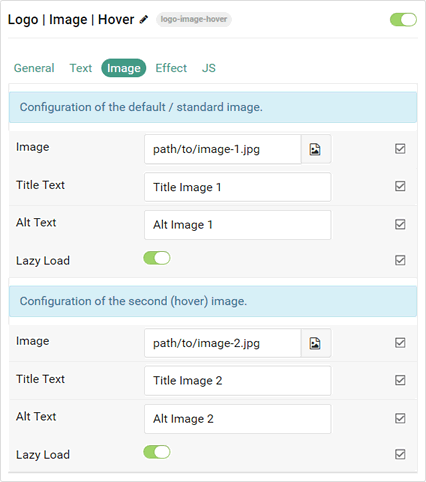
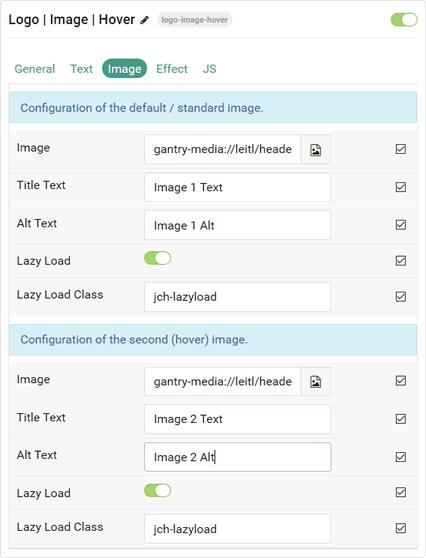
added legacy and translation yaml, screenshot updated, prep. 1.2.0

diff --git a/README.md b/README.md
@@ -9,22 +9,22 @@ This project contains a Gantry Particle and adds a very powerful image render an
 * Gantry Templating Framework and Theme
 
 ## Download
-Choose the correct download for your target platform. The Joomla Plugin System is supported for all Gantry themes globally or locally for the templates Helium and Hydrogen. The latest Particle version is **v1.1.9**.
+Choose the correct download for your target platform. The Joomla Plugin System is supported for all Gantry themes globally or locally for the templates Helium and Hydrogen. The latest Particle version is **v1.2.0**.
 ___
 **Default Particle:**
-[English](https://github.com/thexmanxyz/Logo-Image-Hover-Gantry/releases/download/v1.1.9/lih.particle.only.EN.v1.1.9.zip) / [German](https://github.com/thexmanxyz/Logo-Image-Hover-Gantry/releases/download/v1.1.9/lih.particle.only.DE.v1.1.9.zip)
+[English](https://github.com/thexmanxyz/Logo-Image-Hover-Gantry/releases/download/v1.2.0/lih.particle.only.EN.v1.2.0.zip) / [German](https://github.com/thexmanxyz/Logo-Image-Hover-Gantry/releases/download/v1.2.0/lih.particle.only.DE.v1.2.0.zip)
 
 **Legacy Particle - Gantry <5.3.2:**
-[English](https://github.com/thexmanxyz/Logo-Image-Hover-Gantry/releases/download/v1.1.9/lih.particle.only.legacy.EN.v1.1.9.zip) / [German](https://github.com/thexmanxyz/Logo-Image-Hover-Gantry/releases/download/v1.1.9/lih.particle.only.legacy.DE.v1.1.9.zip)
+[English](https://github.com/thexmanxyz/Logo-Image-Hover-Gantry/releases/download/v1.2.0/lih.particle.only.legacy.EN.v1.2.0.zip) / [German](https://github.com/thexmanxyz/Logo-Image-Hover-Gantry/releases/download/v1.2.0/lih.particle.only.legacy.DE.v1.2.0.zip)
 
 **Joomla Plugin - All Templates (Global):**
-[English](https://github.com/thexmanxyz/Logo-Image-Hover-Gantry/releases/download/v1.1.9/lih.j3.global.EN.v1.1.9.zip) / [German](https://github.com/thexmanxyz/Logo-Image-Hover-Gantry/releases/download/v1.1.9/lih.j3.global.DE.v1.1.9.zip)
+[English](https://github.com/thexmanxyz/Logo-Image-Hover-Gantry/releases/download/v1.2.0/lih.j3.global.EN.v1.2.0.zip) / [German](https://github.com/thexmanxyz/Logo-Image-Hover-Gantry/releases/download/v1.2.0/lih.j3.global.DE.v1.2.0.zip)
 
 **Joomla Plugin - Hydrogen:**
-[English](https://github.com/thexmanxyz/Logo-Image-Hover-Gantry/releases/download/v1.1.9/lih.j3.hydrogen.EN.v1.1.9.zip) / [German](https://github.com/thexmanxyz/Logo-Image-Hover-Gantry/releases/download/v1.1.9/lih.j3.hydrogen.DE.v1.1.9.zip)
+[English](https://github.com/thexmanxyz/Logo-Image-Hover-Gantry/releases/download/v1.2.0/lih.j3.hydrogen.EN.v1.2.0.zip) / [German](https://github.com/thexmanxyz/Logo-Image-Hover-Gantry/releases/download/v1.2.0/lih.j3.hydrogen.DE.v1.2.0.zip)
 
 **Joomla Plugin - Helium:**
-[English](https://github.com/thexmanxyz/Logo-Image-Hover-Gantry/releases/download/v1.1.9/lih.j3.helium.EN.v1.1.9.zip) / [German](https://github.com/thexmanxyz/Logo-Image-Hover-Gantry/releases/download/v1.1.9/lih.j3.helium.DE.v1.1.9.zip)
+[English](https://github.com/thexmanxyz/Logo-Image-Hover-Gantry/releases/download/v1.2.0/lih.j3.helium.EN.v1.2.0.zip) / [German](https://github.com/thexmanxyz/Logo-Image-Hover-Gantry/releases/download/v1.2.0/lih.j3.helium.DE.v1.2.0.zip)
 ___
 
 ## Automatic Installation (Joomla only)
